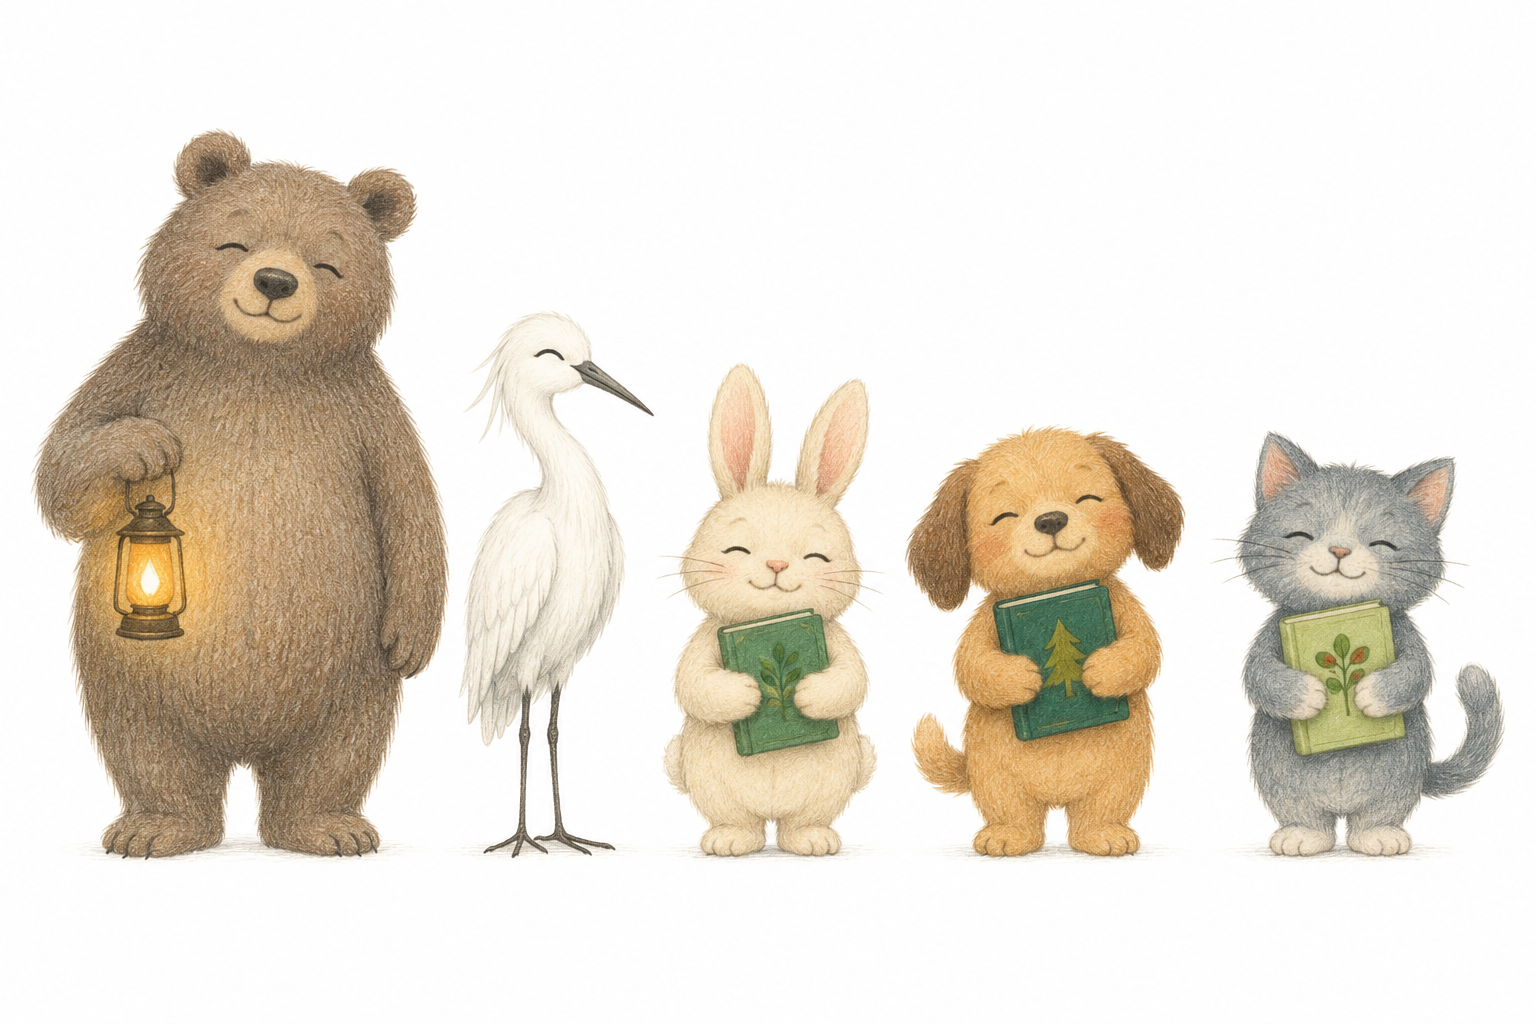
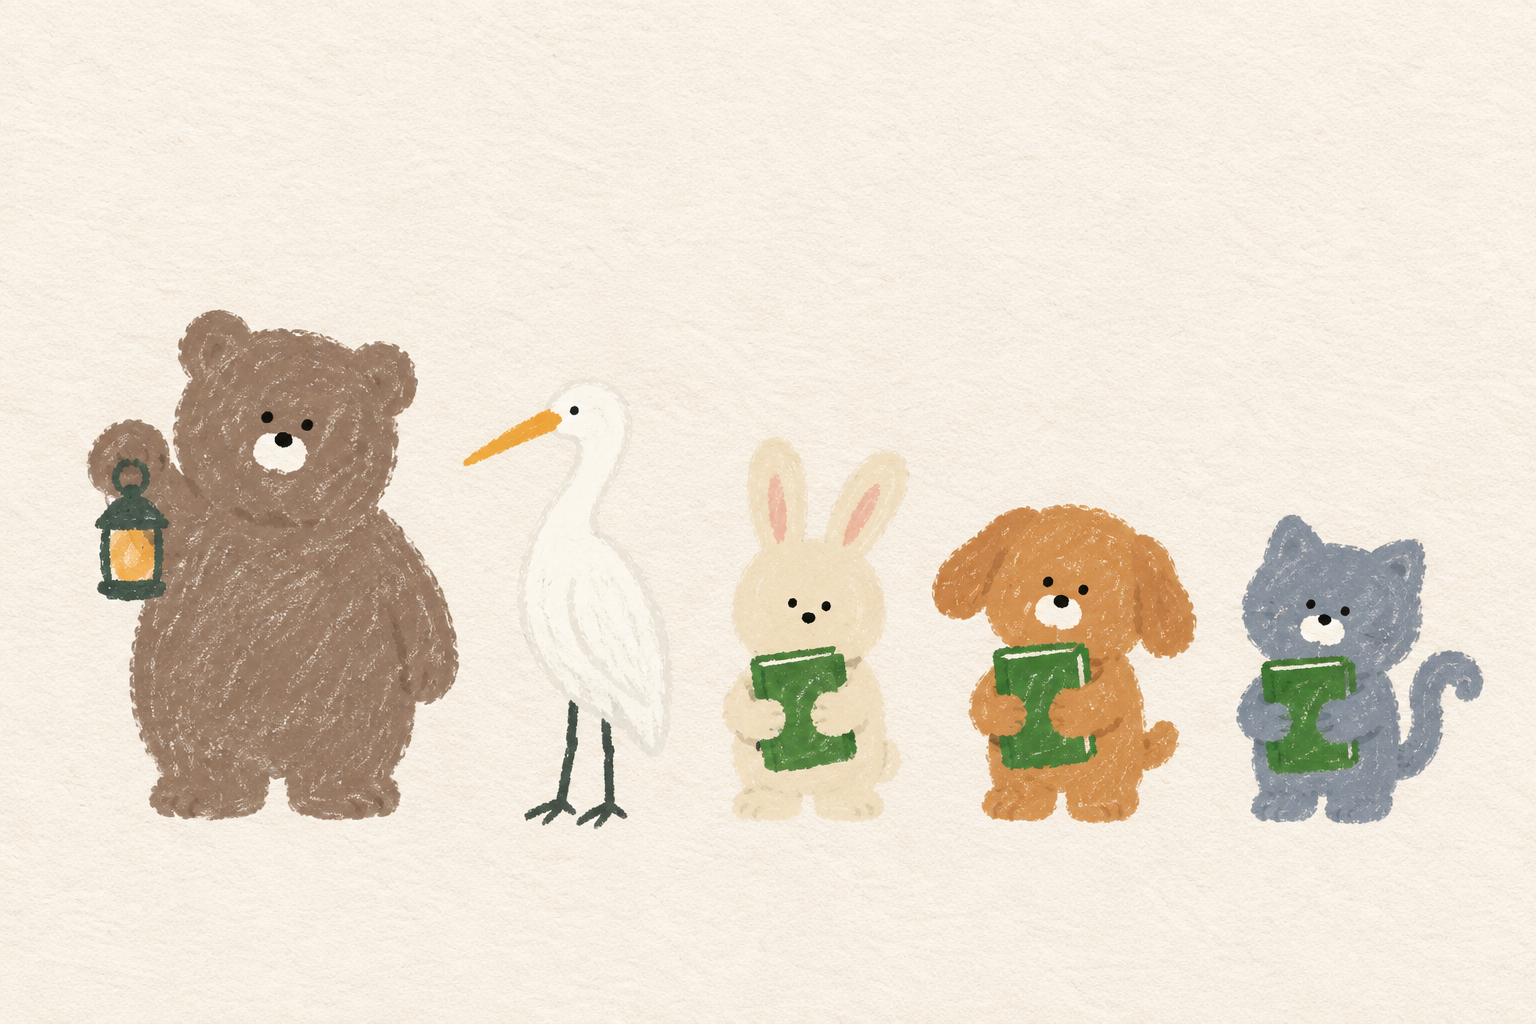
docs: 일러스트 그림체를 크레용 스타일로 변경, 곰은 반달가슴곰으로
색연필 세밀화(1차)는 docs/illustrations/pencil-v1/에 보관하고
public/illustrations는 비웠다. 2차 캐릭터 시트를 확정본으로 저장.

Claude-Session: https://claude.ai/code/session_01BZsYGgJgCZUFJFReJtTQWH

diff --git a/docs/illustration-brief.md b/docs/illustration-brief.md
@@ -5,6 +5,8 @@
 
 ## 작업 순서 (스타일이 흐트러지지 않게)
 
+> 참고 이미지(다른 작가의 크레용 그림)는 톤·단순함의 정도만 참고하고, 작가 이름이나 그림을 ChatGPT에 직접 넣어 따라 그리게 하지 않습니다(CLAUDE.md 저작권 원칙).
+
 1. **한 대화(채팅) 안에서 전부 만듭니다.** 대화를 바꾸면 스타일이 달라집니다.
 2. 맨 처음 **캐릭터 시트** 프롬프트(0번)로 다섯 캐릭터를 한 장에 뽑아 스타일을 고정합니다. 마음에 들 때까지 이것만 다시 뽑습니다.
 3. 그다음부터 각 자산 프롬프트를 하나씩 보내되, 앞에 항상 **공통 스타일 문단**을 붙이고 "**위 캐릭터 시트와 똑같은 디자인으로**"라고 덧붙입니다.
@@ -14,17 +16,15 @@
 ## 공통 스타일 문단 (모든 프롬프트 맨 앞에 붙이기)
 
 ```
-Children's picture-book illustration drawn in soft colored pencil texture, hand-drawn and warm, gentle and calm, minimal detail, soft edges without hard black outlines. Palette: sage green (#EAF0E5), leaf green (#2FA84F), deep forest green (#1B5E3A), warm amber lantern light (#E8A33D), dark forest-shadow ink (#26362B), a tiny touch of berry red (#D94A32) only if needed. One subject centered with generous empty space around it. Plain flat solid background filled with one uniform sage green color #EAF0E5 — no checkerboard pattern, no texture, no gradient, no ground shadow. No text, no watermark, no border, no frame. Not a sticker, not emoji style, not glossy 3D, not vector clip-art.
+Children's picture-book illustration in a simple naive crayon and oil-pastel style, hand-drawn, warm, gentle, and quietly playful. Use large, flat, chunky color shapes with visible broad crayon strokes, uneven waxy coverage, and softly irregular edges; a subtle paper grain may show inside the colored shapes only. Keep the character extremely simple and iconic: a rounded silhouette, slightly imperfect handmade proportions, very few facial marks, tiny dot eyes, a tiny nose and mouth, and short simplified limbs. Avoid realistic anatomy and detailed rendering. Do not draw individual strands of fur or feathers, fine pencil hatching, intricate textures, polished digital shading, highlights, or dimensional modeling. Palette: sage green (#EAF0E5), leaf green (#2FA84F), deep forest green (#1B5E3A), warm amber (#E8A33D), dark forest-shadow ink (#26362B), and only a tiny touch of berry red (#D94A32) if needed. One small subject centered with generous empty space around it. Plain flat solid background filled with one uniform sage green color (#EAF0E5): the background itself must be perfectly flat with no paper texture, gradient, checkerboard pattern, scenery, lighting effect, or ground shadow. No text, watermark, border, or frame. Not a sticker, not emoji style, not glossy 3D, not vector clip-art, and not a detailed colored-pencil illustration.
 ```
 
 ## 진행 상황
 
-- 0번 캐릭터 시트: **확정** (`docs/illustrations/character-sheet.png`). 이후 그림은 전부 이 시트 기준.
-- 1번 곰: **완료** (세이지 단색 배경으로 다시 받아 `scripts/knockout-bg.py`로 배경을 걷어냄 → `public/illustrations/bear-lantern.png`).
-- 5번 강아지·6번 고양이: **완료** (`dog.png`, `cat.png`).
-- 4번 토끼: **완료** (`--lo 3.5 --hi 14` → `rabbit.png`).
-- 3번 앉은 새: **완료** (세이지 배경 → `knockout-bg.py --lo 3.5 --hi 10`, 흰 몸통이 배경과 가까워 문턱을 낮춤 → `bird-perched.png`).
-- 2번 편지 새: **완료** (`public/illustrations/bird-letter.png`, 진짜 투명 PNG로 나옴 — 이 방식이 되면 굳이 단색 배경으로 안 뽑아도 됨).
+- **그림체 변경(2차)**: 색연필 세밀화(1차, `docs/illustrations/pencil-v1/`에 보관)가 앱 아이콘 크기에서 뭉개져 보여, 단순한 크레용·오일파스텔 스타일로 바꿨습니다. 공통 스타일 문단은 사용자가 직접 다시 쓴 것을 기준으로 합니다.
+- 곰은 **까만 반달가슴곰**(가슴에 흰 초승달 무늬)으로 정함. 2차 시트의 갈색 곰은 1번 프롬프트에서 반달곰으로 바꿔 뽑는다.
+- 0번 캐릭터 시트(2차): **확정** (`docs/illustrations/character-sheet.png`). 이후 그림은 전부 이 시트 기준.
+- 1~13번: 새 스타일로 다시 뽑는 중.
 
 ## 자산 목록
 
@@ -51,14 +51,14 @@ Children's picture-book illustration drawn in soft colored pencil texture, hand-
 
 ```
 [공통 스타일 문단]
-A character sheet showing five characters standing side by side in a row, all in the exact same drawing style and scale: (1) a friendly round bear with slightly worn brown-grey fur holding a small glowing amber lantern, (2) a slender white bird like a small egret, (3) a small round cream-colored rabbit, (4) a small round honey-brown dog, (5) a small round grey-blue cat. The rabbit, dog and cat are children-like and each hug a closed picture book. Gentle closed-eye smiles, simple shapes, same line weight and texture for all five. Plain flat white background for this sheet only.
+A character sheet showing five characters standing side by side in a row, all in the exact same drawing style and scale: (1) a friendly round black Asiatic moon bear (black fur with a small white crescent mark on its chest and a lighter muzzle) holding a small glowing amber lantern, (2) a slender white bird like a small egret, (3) a small round cream-colored rabbit, (4) a small round honey-brown dog, (5) a small round grey-blue cat. The rabbit, dog and cat are children-like and each hug a closed picture book. Tiny dot eyes, simple rounded shapes, same stroke weight for all five. Plain flat white background for this sheet only.
 ```
 
 ### 1. 등불 든 곰 — `bear-lantern.png`
 
 ```
 [공통 스타일 문단]
-Same bear as in the character sheet. Full body, standing and walking slowly toward the right as if guiding the way through a night forest, holding up a small glowing amber lantern in one paw at shoulder height. The lantern gives off a soft warm halo. Gentle closed-eye smile, calm and reassuring. Flat solid sage green background (#EAF0E5).
+Same bear as in the character sheet. Full body, standing and walking slowly toward the right as if guiding the way through a night forest, holding up a small glowing amber lantern in one paw at shoulder height. The lantern gives off a soft warm halo. Tiny dot eyes, calm and reassuring. Flat solid sage green background (#EAF0E5).
 ```
 
 ### 2. 편지 물고 나는 하얀 새 — `bird-letter.png`
@@ -99,19 +99,19 @@ Same cat as in the character sheet. Full body, standing, facing forward, hugging
 ### 7. 토끼 발자국 도장 — `paw-rabbit.png`
 
 ```
-A single rubber-stamp style paw print of a rabbit: two elongated oval pads above and two small round toe pads, printed in one flat deep forest green ink (#1B5E3A), edges slightly uneven and grainy like a real ink stamp on paper, simple bold silhouette, centered, flat solid sage green background (#EAF0E5) with no checkerboard, no text, no border.
+A single rubber-stamp style paw print of a rabbit: two elongated oval pads above and two small round toe pads, printed in one flat deep forest green ink (#1B5E3A), edges slightly uneven and waxy like a crayon rubber stamp, simple bold silhouette, centered, flat solid sage green background (#EAF0E5) with no checkerboard, no text, no border.
 ```
 
 ### 8. 강아지 발자국 도장 — `paw-dog.png`
 
 ```
-A single rubber-stamp style paw print of a dog: one large heart-shaped pad with four round toe pads above it, printed in one flat deep forest green ink (#1B5E3A), edges slightly uneven and grainy like a real ink stamp on paper, simple bold silhouette, centered, flat solid sage green background (#EAF0E5) with no checkerboard, no text, no border.
+A single rubber-stamp style paw print of a dog: one large heart-shaped pad with four round toe pads above it, printed in one flat deep forest green ink (#1B5E3A), edges slightly uneven and waxy like a crayon rubber stamp, simple bold silhouette, centered, flat solid sage green background (#EAF0E5) with no checkerboard, no text, no border.
 ```
 
 ### 9. 고양이 발자국 도장 — `paw-cat.png`
 
 ```
-A single rubber-stamp style paw print of a cat: a smaller rounded pad with four small oval toe pads close together, printed in one flat deep forest green ink (#1B5E3A), edges slightly uneven and grainy like a real ink stamp on paper, simple bold silhouette, centered, flat solid sage green background (#EAF0E5) with no checkerboard, no text, no border.
+A single rubber-stamp style paw print of a cat: a smaller rounded pad with four small oval toe pads close together, printed in one flat deep forest green ink (#1B5E3A), edges slightly uneven and waxy like a crayon rubber stamp, simple bold silhouette, centered, flat solid sage green background (#EAF0E5) with no checkerboard, no text, no border.
 ```
 
 ### 10. 켜진 등불 — `lantern-on.png`
@@ -132,13 +132,13 @@ The exact same small hanging lantern as before but unlit: dark glass, no glow, n
 
 ```
 [공통 스타일 문단 — 단, 이 그림은 단색 배경 대신 장면이 화면 전체를 채웁니다]
-A wide, gentle night forest scene: a soft winding path leading from the bottom toward the distance, tall rounded trees on both sides, a calm indigo-green starry sky, a few tiny amber lantern lights far along the path. No characters, no text. Leave the lower third of the image quiet and simple so characters can be placed there later. Dreamy, calm, colored pencil texture over the whole image. Landscape 3:2.
+A wide, gentle night forest scene: a soft winding path leading from the bottom toward the distance, tall rounded trees on both sides, a calm indigo-green starry sky, a few tiny amber lantern lights far along the path. No characters, no text. Leave the lower third of the image quiet and simple so characters can be placed there later. Dreamy, calm, broad crayon strokes over the whole image, very simple shapes. Landscape 3:2.
 ```
 
 ### 13. 앱 아이콘 — `app-icon.png` (배경 있음)
 
 ```
-App icon design, flat and very simple, readable at tiny size: a single glowing amber lantern (#E8A33D) with a soft halo on a plain sage green (#EAF0E5) rounded-square background, tiny hint of the bear's paw holding the lantern handle at the bottom edge, colored pencil texture kept subtle. No text, no border, square 1:1, fills the whole canvas.
+App icon design, flat and very simple, readable at tiny size: a single glowing amber lantern (#E8A33D) with a soft halo on a plain sage green (#EAF0E5) rounded-square background, tiny hint of the black moon bear's paw holding the lantern handle at the bottom edge, crayon texture kept subtle. No text, no border, square 1:1, fills the whole canvas.
 ```
 
 ## 다 만든 뒤
